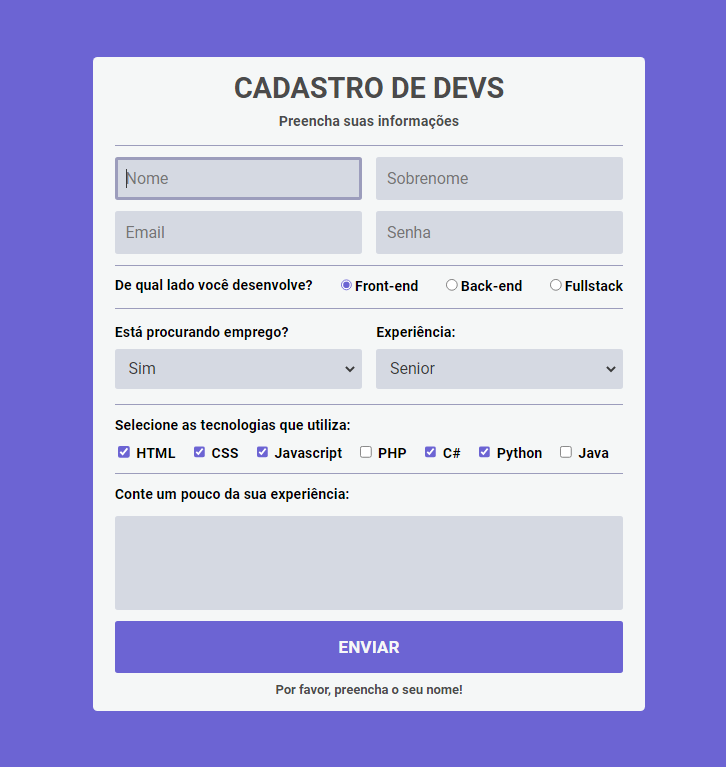
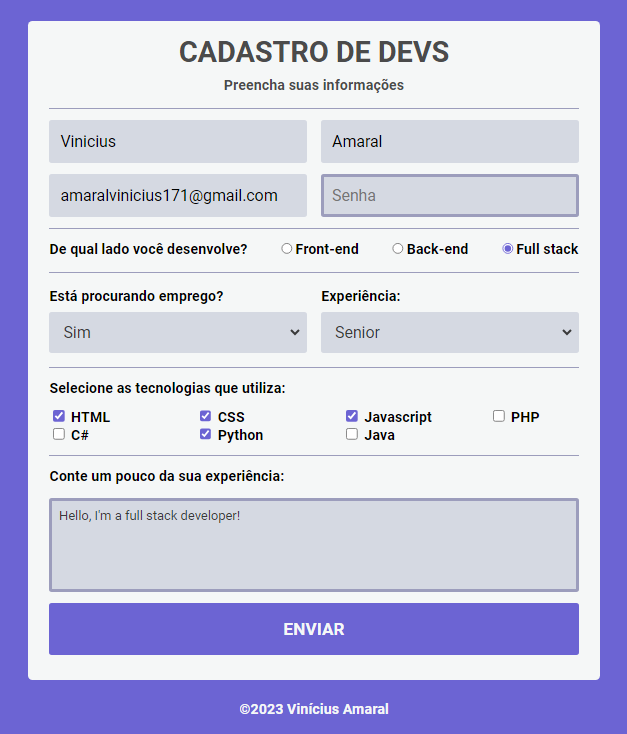
Responsiveness and footer

diff --git a/index.html b/index.html
@@ -8,14 +8,17 @@
   <link rel="preconnect" href="https://fonts.gstatic.com" crossorigin>
   <link href="https://fonts.googleapis.com/css2?family=Roboto:ital,wght@0,100;0,300;0,400;0,500;0,700;0,900;1,100;1,300;1,400;1,500;1,700;1,900&display=swap" rel="stylesheet">
   <link rel="stylesheet" href="css/styles.css">
-  <script src="js/script.js" defer></script>
   <title>Cadastro</title>
+  <meta name="description" content="O front-end de um cadastro para desenvolvedores com validação em Javascript">
+  <meta name="author" content="Vinícius Amaral">
   </script>
 </head>
 <body>
-  <div id="main-container">
-    <h1>CADASTRO DE DEVS</h1>
-    <p>Preencha suas informações</p>
+  <main id="main-container">
+    <header>
+      <h1>CADASTRO DE DEVS</h1>
+      <p>Preencha suas informações</p>
+    </header>
 
     <form id="form">
       <div id="name-container">
@@ -34,7 +37,7 @@
         <label for="">De qual lado você desenvolve?</label>
           <div><label for="front-end" class="clickable"><input type="radio" name="dev" value="front-end" id="front-end" checked>Front-end</label></div>
           <div><label for="back-end" class="clickable"><input type="radio" name="dev" value="back-end" id="back-end">Back-end</label></div>
-          <div><label for="fullstack" class="clickable"><input type="radio" name="dev" value="fullstack" id="fullstack">Fullstack</label></div>
+          <div><label for="fullstack" class="clickable"><input type="radio" name="dev" value="fullstack" id="fullstack">Full stack</label></div>
       </div>
 
       <div id="job-container">
@@ -84,6 +87,10 @@
       <button type="submit">ENVIAR</button>
       <div id="erro"></div>
     </form>
-  </div>
+  </main>
+  <footer>
+    <a href="https://github.com/AmaralVinicius/" target="_blank">&copy2023 Vinícius Amaral</a>
+  </footer>
+  <script src="js/script.js" defer></script>
 </body>
 </html>

diff --git a/css/styles.css b/css/styles.css
@@ -6,15 +6,15 @@
 body{
   background:#6c64d3;
   min-height: 100vh;
-  margin: 0;
+  margin: 0 1rem;
   display: flex;
   flex-direction: column;
   justify-content: center;
+  align-items: center;
 }
 
 #main-container{
   background: #f5f7f7;
-  min-width: 400px;
   max-width: 700px;
   margin: .75em auto;
   padding: 1em 1.5em;
@@ -144,6 +144,7 @@ button:hover, button:focus {
   display: flex;
   flex-direction: column;
   width: 50%;
+  justify-content: space-between;
 }
 
 #language-container {
@@ -155,17 +156,62 @@ button:hover, button:focus {
 }
 
 #languages {
-  display: flex;
-  flex-wrap: wrap;
-  justify-content: center;
-}
-
-#languages label {
-  margin-right: 1rem;
+  display: grid;
+  grid-template-columns: repeat(4, 1fr);
+  justify-items: left;
+  margin: 0 auto;
+  column-gap: 4rem;
 }
 
 #erro p {
   font-size: 0.9em;
   margin: 0;
   margin-top: -0.15rem;
+}
+
+footer {
+  margin: 0.6rem;
+  margin-bottom: 1rem;
+}
+
+a {
+  text-decoration: none;
+  color: #f5f7f7;
+  font-weight: bold;
+}
+
+a:hover {
+  color: #3a3a3a;
+}
+
+@media (max-width: 720px) {
+  body {
+    font-size: 0.9em;
+  }
+
+  h1 {
+    font-size: 1.8em;
+  }
+
+  input, select, textarea {
+    font-size: 1em;
+  }
+
+  button {
+    font-size: 1em;
+  }
+
+  label {
+    font-size: 0.9em;
+  }
+
+  #languages {
+    grid-template-columns: repeat(3, 1fr);
+  }
+}
+
+@media (max-width: 540px) {
+  #languages {
+    column-gap: 1rem;
+  }
 }
